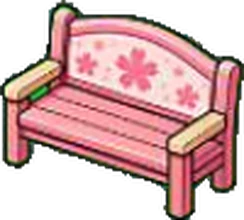
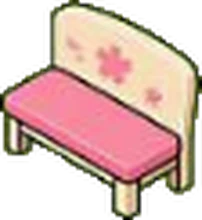
Add files via upload

diff --git a/js/news.js b/js/news.js
@@ -7,10 +7,11 @@ const NEWS=(()=>{
 const KEY='bpNewsSeen',MUTE='bpNewsMute';
 const L=[
  {v:'4.3.7',d:'11월 2일',q:1,t:['🛋 2칸 가구(특히 뒷모습 소파·벤치·피아노)를 돌렸을 때 그림과 칸이 어긋나던 것을 다시 고쳤어요']},
+ {v:'4.4',d:'11월 2일',t:['🛋 소파 · 니트 소파 · 벤치 · 벚꽃 벤치가 귀여운 1인용(안락의자·스툴) 그림으로 바뀌고, 다시 1칸 가구가 됐어요 (피아노 · 빵 진열대도 1칸)']},
  {v:'4.3.9',d:'11월 2일',t:['↻ 가구 돌리기가 시계 방향 순서로 바뀌었어요. 두 번 돌리면 정확히 반대 방향(180°)이 돼요 (2칸 가구도 같은 줄에 그대로)']},
  {v:'4.3.6',d:'11월 2일',t:['🏠 코인 외관 6종(벽돌집 · 통나무 오두막 · 한옥 · 카페 테라스 · 과자집 · 성)도 새 그림으로 바뀌었어요! 동네에서 비싼 가게가 더 멋져 보여요']},
  {v:'4.3.5',d:'11월 2일',t:['🛋 2칸 가구를 돌렸을 때 그림과 차지하는 칸이 어긋나던 문제를 고쳤어요','🖐 꾸미기에서 가구를 꾹 눌러 끌면 바로 옮겨져요 (초록 = 놓을 수 있음, 빨강 = 안 됨)']},
- {v:'4.3.4',d:'11월 2일',t:['🛋 소파 · 니트 소파 · 벤치 · 벚꽃 벤치 · 빵 진열대 · 피아노가 2칸 가구가 됐어요! 그림이 칸에 딱 맞고, 소파·벤치엔 손님이 두 명 앉아요','📦 자리가 모자라 겹치던 가구는 돌려서 맞추고, 그래도 안 되면 보관함에 넣어 뒀어요 (꾸미기에서 다시 놓아 주세요)']},
+ {v:'4.3.4',d:'11월 2일',t:['📦 자리가 모자라 겹치던 가구는 돌려서 맞추고, 그래도 안 되면 보관함에 넣어 뒀어요 (꾸미기에서 다시 놓아 주세요)']},
  {v:'4.3.3',d:'11월 2일',t:['🏪 기본 외관이 귀여운 그림으로 바뀌었어요 (노점 = 붕어빵 수레, 가게 = 아담한 크림색 가게)','🪑 새 그림 가구 크기를 칸에 맞게 줄여서 덜 겹쳐 보여요']},
  {v:'4.3.2',d:'11월 2일',t:['👥 알바가 20레벨까지 커요! 굽기·계산이 12레벨에서 막히던 게 풀려요 (시간당 34명 → 최대 54명)','🏮 위쪽 "등급 · Lv" 줄을 누르면 다음 등급·레벨까지 얼마나 남았는지, 무엇으로 오르는지 보여요','🧾 카운터 메뉴판이 사장님 얼굴을 가리지 않게 위로 옮겼어요']},
  {v:'4.3.1',d:'11월 2일',t:['🛋 의자 · 소파 · 탁자 · 벤치 · 피아노 · 벽난로 · 붕어빵 수레 등 가구 24종도 새 그림으로! 이제 가게 가구가 모두 같은 그림체예요 (러그·피크닉 매트는 그대로)']},

diff --git a/js/iso.js b/js/iso.js
@@ -72,7 +72,8 @@ const isCounter=(gx,gy)=>gy===0&&(gx===1||gx===2);
 const isPath=(gx,gy,n=N)=>(gy===1&&(gx===1||gx===2))||(gx===n-1&&gy===n-1);
 const canPlace=(gx,gy,n=N)=>inRoom(gx,gy,n)&&!isCounter(gx,gy)&&!isPath(gx,gy,n);
 /* 🛋 2칸 가구 (11/2): 소파·니트 소파·벤치·벚꽃 벤치·빵 진열대·피아노. 방향 0·3은 오른쪽 아래 칸(x+1), 1·2는 왼쪽 아래 칸(y+1)까지 */
-const WIDE=new Set(['sofa','knit','bench','skbench','shelf','piano']);
+/* 11/2: 2칸 가구는 사람 눈에 어색해서 되돌림 (기능은 남겨 두고 목록만 비움) */
+const WIDE=new Set([]);
 const isWide=k=>WIDE.has(k);
 /* 칸 방향은 그림과 똑같이: 그림을 안 뒤집으면 길이가 x(오른쪽 아래), 뒤집으면 y(왼쪽 아래) */
 /* 방향 d: 0 앞·왼쪽 아래 보기 · 1 앞·오른쪽 아래 · 2 뒤·왼쪽 위 · 3 뒤·오른쪽 위.
@@ -127,7 +128,7 @@ const STK={};
 /* AI 그림 가구 (img/fu): 소품(emo) + 아래 목록. w = 칸 너비 대비 그림 너비, fr = 그림이 오른쪽 아래를 봄, b = 뒷모습 그림(_b) 있음.
    방향 d: 0 왼쪽 아래 보기(앞) · 1 오른쪽 아래(앞 뒤집기) · 2 왼쪽 위(뒤 뒤집기) · 3 오른쪽 위(뒤) — 뒷모습이 없으면 앞 그림을 써요. 러그·피크닉 매트는 바닥이라 코드 그림 */
 /* by = 뒷모습 그림이 (안 뒤집었을 때) 왼쪽 위를 보고 길이가 y 방향 (그림마다 달라서 눈으로 확인해 적었어요) */
-const FIMG={chair:{w:.62,b:1},sofa:{w:1.05},shelf:{w:.98},piano:{w:.9,b:1,by:1},bench:{w:1.05,b:1,fy:1},throne:{w:.72},cchair:{w:.58,fr:1,b:1},cboard:{w:.7},skbench:{w:1.05,b:1,by:1},knit:{w:1.05,b:1,by:1},
+const FIMG={chair:{w:.62,b:1},sofa:{w:.7},shelf:{w:.98},piano:{w:.9,b:1,by:1},bench:{w:.6},throne:{w:.72},cchair:{w:.58,fr:1,b:1},cboard:{w:.7},skbench:{w:.72},knit:{w:.7},
  table:{w:.9},plant:{w:.6},bear:{w:.72},stand:{w:.62},lamp:{w:.5},tree:{w:.68},tank:{w:.82},ctable:{w:.78},pond:{w:1.05},fire:{w:.9},bcushion:{w:.82},bcart:{w:.95},bflag:{w:.55},bstatue:{w:.62}};
 const FUI={};function ld(src){let im=FUI[src];if(!im){im=new Image();im.decoding='async';im.src=src;FUI[src]=im}return im.complete&&im.naturalWidth?im:null}
 function fuImg(k,back){if(!FK[k]||!(FK[k].emo||FIMG[k]))return null;if(back&&FIMG[k]&&FIMG[k].b){const b=ld('img/fu/'+k+'_b.webp');if(b)return b}return ld('img/fu/'+k+'.webp')}

diff --git a/js/shop.js b/js/shop.js
@@ -607,7 +607,7 @@ setInterval(()=>{if(document.hidden)return;bizTick(false);if(scr==='home')bizBtn
 window.__shop={get stHits(){return stHits},get stList(){return stList},CF,startCafe,finishCafe,BIZ,bctx,bizTick,openLed,openUp,awayCard,IS,animal,fish2,bakeCol,em,tx,rr,cx,B,get save(){return save},set save(v){save=v},get run(){return run},get s(){return s},get scr(){return scr},startDay,tap,drain,finishDay,toHome,goalsFor,grade,charmBonus,SLOTS,GR};
 $('nms').onclick=()=>{au();snd('tap');openMedal('home')};
 /* 🛋 2칸 가구로 바뀐 뒤 처음: 겹치는 소파·벤치는 돌려 보고, 안 되면 보관함으로 */
-if(!save.w4&&save.fur){const moved=IS.fixWide(save.fur,save.room);save.w2=save.w3=save.w4=1;store();if(moved.length)setTimeout(()=>bzShow('🛋','2칸 가구가 됐어요!','<p style="text-align:center;margin:0">소파 · 벤치 · 빵 진열대 · 피아노가 이제 2칸을 차지하고 두 명이 앉아요.<br>자리가 모자란 <b>'+moved.length+'개</b>는 📦 보관함에 넣어 뒀어요. 🎨 꾸미기에서 다시 놓아 주세요!</p>','🎨 꾸미러 가기',()=>openDeco('home'),'좋아요',null),900)}
+if(!save.w4&&save.fur){const moved=IS.fixWide(save.fur,save.room);save.w2=save.w3=save.w4=1;store();if(0&&moved.length)setTimeout(()=>bzShow('🛋','2칸 가구가 됐어요!','<p style="text-align:center;margin:0">소파 · 벤치 · 빵 진열대 · 피아노가 이제 2칸을 차지하고 두 명이 앉아요.<br>자리가 모자란 <b>'+moved.length+'개</b>는 📦 보관함에 넣어 뒀어요. 🎨 꾸미기에서 다시 놓아 주세요!</p>','🎨 꾸미러 가기',()=>openDeco('home'),'좋아요',null),900)}
 fit();{const qm=new URLSearchParams(location.search).get('medal');if(qm!=null&&save.name){try{history.replaceState(null,'',location.pathname)}catch(e){}setTimeout(()=>openMedal('home'),400)}}{const qv=new URLSearchParams(location.search).get('visit');if(qv){try{history.replaceState(null,'',location.pathname)}catch(e){}renderHome();visit(qv,'url')}else if(save.name){const g=bizTick(false);toHome();if(!save.biz)setTimeout(bizIntro,350);else if(giftCheck()){}else if(g&&g.h>=3/60)setTimeout(()=>awayCard(g),350);setTimeout(()=>NEWS.check(false),400);INSTALL.nudge(true)}else{NEWS.check(true);renderHome();openName(true);INSTALL.nudge(false)}}requestAnimationFrame(loop);
 setTimeout(syncShop,1500);
 })();

diff --git a/shop.html b/shop.html
@@ -154,15 +154,15 @@ button:active{transform:translateY(3px);box-shadow:0 1px 0 #e0c4a0}
 </div>
 <script src="js/sim.js?v=10"></script>
 <script src="js/art.js?v=16"></script>
-<script src="js/iso.js?v=27"></script>
+<script src="js/iso.js?v=28"></script>
 <script src="js/street.js?v=9"></script>
 <script src="js/filter.js?v=1"></script>
 <script src="js/share.js?v=2"></script>
 <script src="js/biz.js?v=6"></script>
 <script src="js/cafe.js?v=3"></script>
-<script src="js/news.js?v=40"></script>
+<script src="js/news.js?v=41"></script>
 <script src="js/install.js?v=5"></script>
-<script src="js/shop.js?v=43"></script>
+<script src="js/shop.js?v=44"></script>
 <script type="module" src="js/net.js?v=6"></script>
 <script type="module" src="js/xfer.js?v=3"></script>
 </body></html>

diff --git a/js/challenge.js b/js/challenge.js
@@ -1,6 +1,6 @@
 /* ===== 화면·저장·조작 (규칙은 위의 BP2에서만 계산) ===== */
 (()=>{
-const B=BP2,R=B.R,W=450,H=800,$=id=>document.getElementById(id),cv=$('cv'),cx=cv.getContext('2d'),fmt=B.fmt,KEY='bungeoppang2Pub1',VER='4.3.10';
+const B=BP2,R=B.R,W=450,H=800,$=id=>document.getElementById(id),cv=$('cv'),cx=cv.getContext('2d'),fmt=B.fmt,KEY='bungeoppang2Pub1',VER='4.4';
 let save={};try{save=JSON.parse(localStorage.getItem(KEY))||{}}catch(e){}
 save=Object.assign({nick:'',sub:{id:0,stage:0,net:0},snd:true,runs:0,clears:0,best:{stage:0,net:0},week:{id:0,stage:0,net:0},free:{stage:0,net:0},run:null},save);
 /* 규칙이 바뀌기 전에 하던 판은 이어서 할 수 없어요 (순위표 검증이 맞지 않아서) */

diff --git a/index.html b/index.html
@@ -104,9 +104,9 @@ button:active{transform:translateY(3px);box-shadow:0 1px 0 #e0c4a0}
 <script src="js/art.js?v=16"></script>
 <script src="js/filter.js?v=1"></script>
 <script src="js/share.js?v=2"></script>
-<script src="js/news.js?v=40"></script>
+<script src="js/news.js?v=41"></script>
 <script src="js/install.js?v=5"></script>
-<script src="js/challenge.js?v=52"></script>
+<script src="js/challenge.js?v=53"></script>
 <script type="module" src="js/lb.js?v=9"></script>
 <script type="module" src="js/xfer.js?v=3"></script>
 </body></html>
